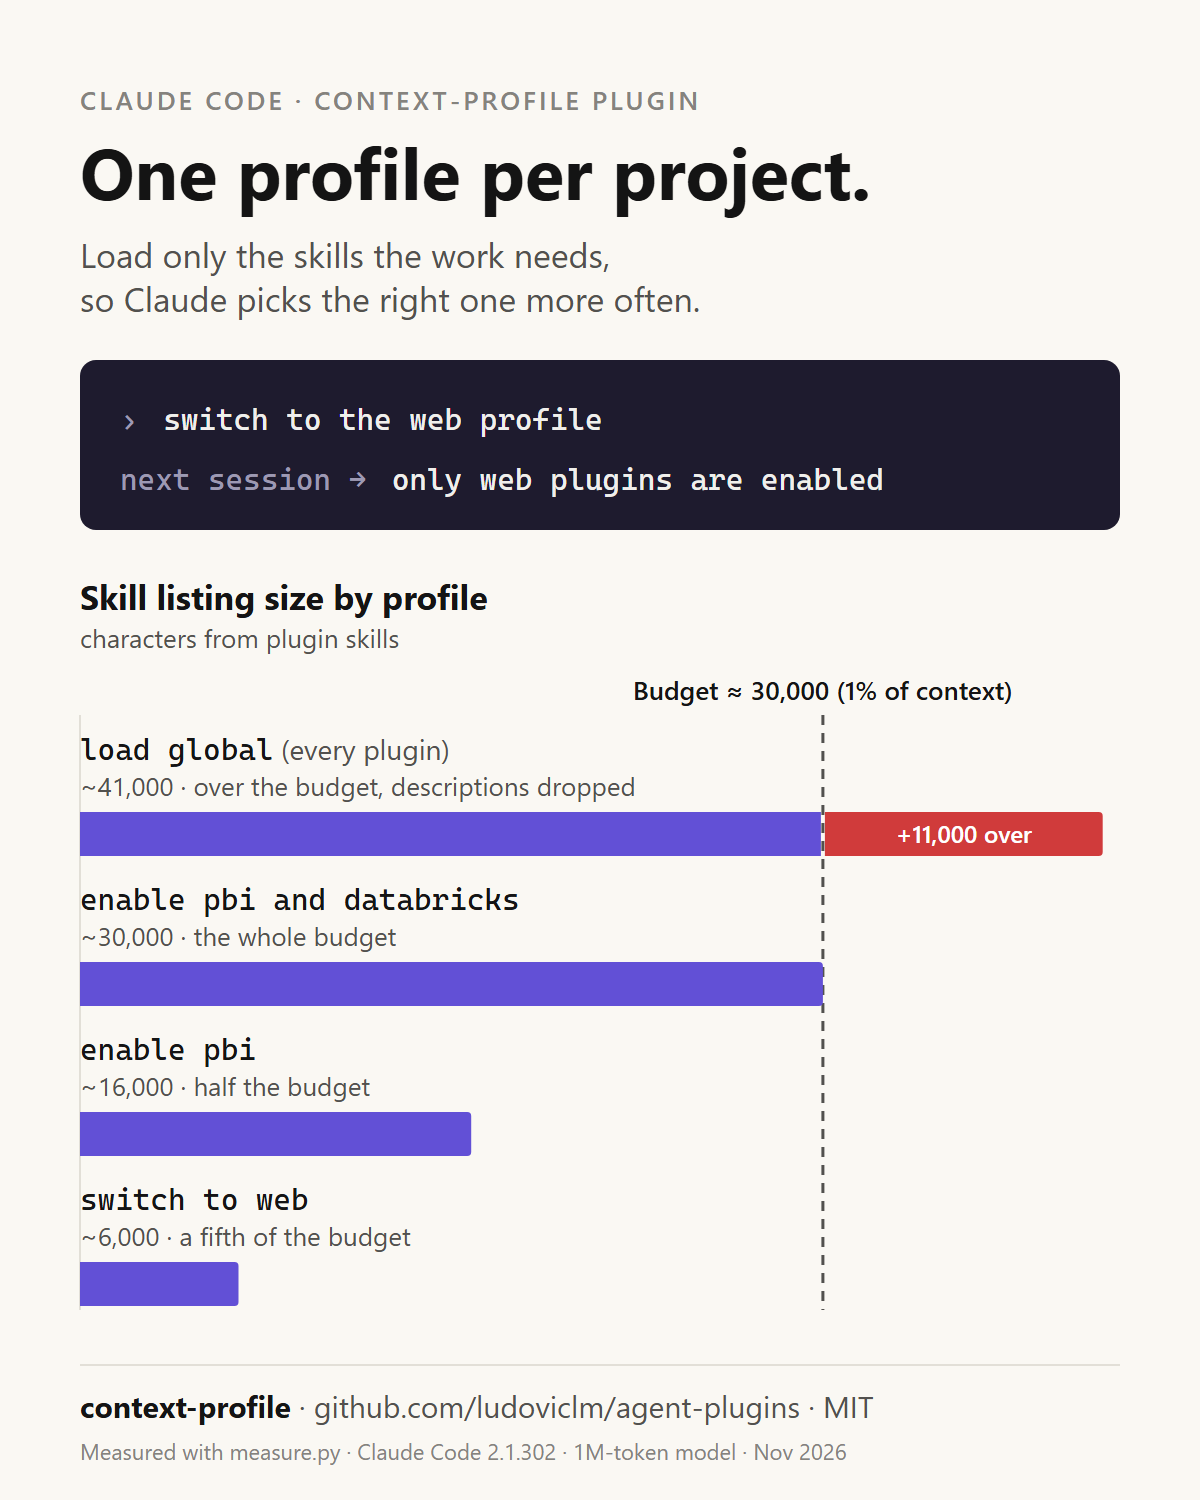
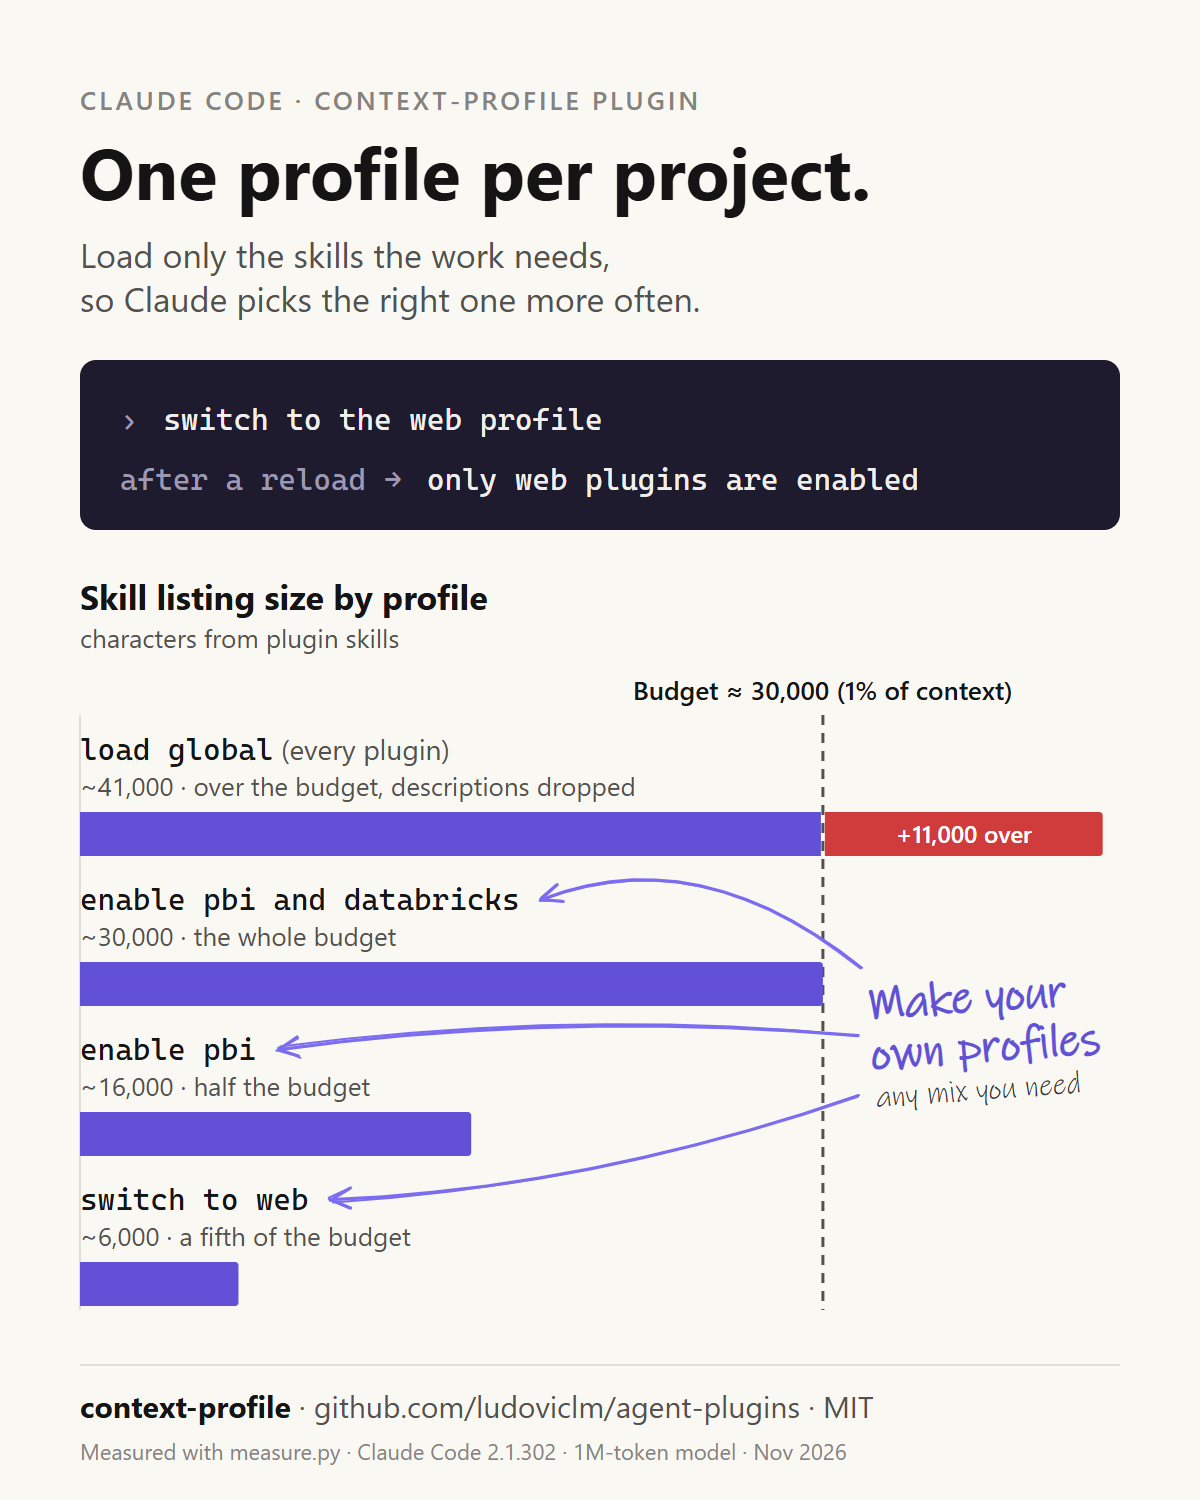
Chart image: "Make your own profiles" note, after a reload

diff --git a/docs/src/context-profile.html b/docs/src/context-profile.html
@@ -27,7 +27,8 @@
   <title id="t">One profile per project</title>
   <desc id="d">Skill listing size by context profile, in characters from plugin skills, against a
     budget of about 30,000 characters: global about 41,000, over the budget; pbi and databricks
-    about 30,000, the whole budget; pbi about 16,000, half; web about 6,000.</desc>
+    about 30,000, the whole budget; pbi about 16,000, half; web about 6,000. A hand-drawn note,
+    "Make your own profiles", points to the last three.</desc>
 
   <!-- Header -->
   <text x="80" y="110" fill="var(--text-muted)" font-size="26" font-weight="600"
@@ -36,14 +37,14 @@
   <text x="80" y="268" fill="var(--text-secondary)" font-size="34">Load only the skills the work needs,</text>
   <text x="80" y="312" fill="var(--text-secondary)" font-size="34">so Claude picks the right one more often.</text>
 
-  <!-- The skill in action: what you type, what the next session shows -->
+  <!-- The skill in action: what you type, what the session shows after a reload -->
   <rect x="80" y="360" width="1040" height="170" rx="16" fill="var(--term-bg)"/>
   <text x="120" y="430" class="mono" font-size="30">
     <tspan fill="var(--term-muted)">›</tspan>
     <tspan fill="var(--term-text)" dx="8">switch to the web profile</tspan>
   </text>
   <text x="120" y="490" class="mono" font-size="30">
-    <tspan fill="var(--term-muted)">next session →</tspan>
+    <tspan fill="var(--term-muted)">after a reload →</tspan>
     <tspan fill="var(--term-text)" dx="8">only web plugins are enabled</tspan>
   </text>
 
@@ -69,19 +70,27 @@
   <text x="963.8" y="843" text-anchor="middle" fill="#ffffff" font-size="24" font-weight="600">+11,000 over</text>
 
   <!-- pbi + databricks: 30,000 -> 822.9 -->
-  <text x="80" y="910" class="mono" fill="var(--text-primary)" font-size="30">enable pbi and databricks</text>
+  <text x="80" y="910" class="mono" fill="var(--text-primary)" font-size="30" id="p-pbidb">enable pbi and databricks</text>
   <text x="80" y="946" fill="var(--text-secondary)" font-size="26">~30,000 · the whole budget</text>
   <path d="M80 962 H818.9 a4 4 0 0 1 4 4 V1002 a4 4 0 0 1 -4 4 H80 Z" fill="var(--series-1)"/>
 
   <!-- pbi: 15,800 -> 471.2 -->
-  <text x="80" y="1060" class="mono" fill="var(--text-primary)" font-size="30">enable pbi</text>
+  <text x="80" y="1060" class="mono" fill="var(--text-primary)" font-size="30" id="p-pbi">enable pbi</text>
   <text x="80" y="1096" fill="var(--text-secondary)" font-size="26">~16,000 · half the budget</text>
   <path d="M80 1112 H467.2 a4 4 0 0 1 4 4 V1152 a4 4 0 0 1 -4 4 H80 Z" fill="var(--series-1)"/>
 
   <!-- web: 6,400 -> 238.5 -->
-  <text x="80" y="1210" class="mono" fill="var(--text-primary)" font-size="30">switch to web</text>
+  <text x="80" y="1210" class="mono" fill="var(--text-primary)" font-size="30" id="p-web">switch to web</text>
   <text x="80" y="1246" fill="var(--text-secondary)" font-size="26">~6,000 · a fifth of the budget</text>
   <path d="M80 1262 H234.5 a4 4 0 0 1 4 4 V1302 a4 4 0 0 1 -4 4 H80 Z" fill="var(--series-1)"/>
+
+  <!-- Hand-drawn note, Excalidraw spirit like docs/context-profile-session.png -->
+  <g id="own" transform="rotate(-4 1000 1040)" font-family="Ink Free, Segoe Print, Comic Sans MS, cursive">
+    <text x="870" y="1010" fill="var(--series-1)" font-size="46" font-weight="700">Make your</text>
+    <text x="870" y="1060" fill="var(--series-1)" font-size="46" font-weight="700">own profiles</text>
+    <text x="872" y="1098" fill="#3a3936" font-size="30">any mix you need</text>
+  </g>
+  <g id="arrows"></g>
 
   <!-- Footer -->
   <line x1="80" y1="1365" x2="1120" y2="1365" stroke="var(--grid)" stroke-width="2"/>
@@ -89,5 +98,37 @@
         fill="var(--text-secondary)" font-weight="400"> · github.com/ludoviclm/agent-plugins · MIT</tspan></text>
   <text x="80" y="1460" fill="var(--text-muted)" font-size="22">Measured with measure.py · Claude Code 2.1.302 · 1M-token model · Nov 2026</text>
 </svg>
+<script>
+  // Sketchy arrows from the note to the custom profiles: a curved stroke drawn twice with a
+  // small jitter and an open arrowhead. Seeded, so every render looks the same.
+  let seed = 11;
+  const rnd = (a) => { seed = (seed * 16807) % 2147483647; return ((seed / 2147483647) - 0.5) * 2 * a; };
+  const NS = "http://www.w3.org/2000/svg", g = document.getElementById("arrows"), color = "#7b6cf0";
+  const stroke = (d, w) => {
+    const p = document.createElementNS(NS, "path");
+    p.setAttribute("d", d); p.setAttribute("stroke", color); p.setAttribute("stroke-width", w);
+    p.setAttribute("fill", "none"); p.setAttribute("stroke-linecap", "round"); p.setAttribute("stroke-linejoin", "round");
+    g.appendChild(p);
+  };
+  // [label id, start point on the note's left, bend of the curve (negative = upwards)]
+  const arrows = [["p-pbidb", 862, 968, -90], ["p-pbi", 858, 1035, -30], ["p-web", 858, 1095, 40]];
+  for (const [id, sx, sy, bend] of arrows) {
+    const t = document.getElementById(id), b = t.getBBox();
+    const ex = b.x + b.width + 22, ey = b.y + b.height / 2;
+    const cx = (sx + ex) / 2, cy = (sy + ey) / 2 + bend;
+    for (let i = 0; i < 2; i++) {
+      const j = () => rnd(i ? 3 : 1.5);
+      stroke(`M ${sx + j()} ${sy + j()} Q ${cx + j() * 4} ${cy + j() * 4} ${ex + j()} ${ey + j()}`, i ? 2 : 3.2);
+    }
+    const a = Math.atan2(ey - cy, ex - cx), len = 22;
+    for (const s of [-1, 1]) {
+      const h = a + Math.PI + s * 0.45;
+      for (let i = 0; i < 2; i++) {
+        const j = () => rnd(i ? 2 : 1);
+        stroke(`M ${ex + j()} ${ey + j()} L ${ex + len * Math.cos(h) + j()} ${ey + len * Math.sin(h) + j()}`, i ? 2 : 3.2);
+      }
+    }
+  }
+</script>
 </body>
 </html>
